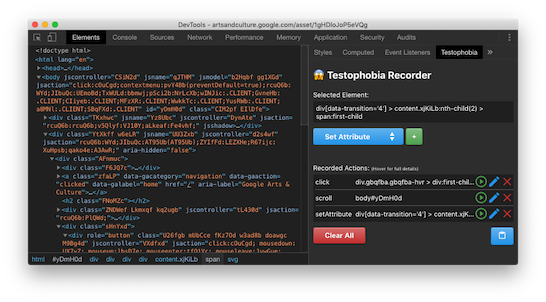
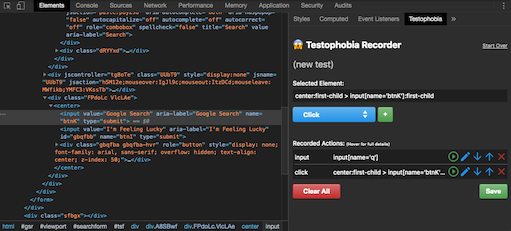
closes #35 (#38)

diff --git a/recorder/extension/sidebar-actions-table.js b/recorder/extension/sidebar-actions-table.js
@@ -1,7 +1,8 @@
-/* global $, Testophobia */
+/* global $, Testophobia, chrome */
 Testophobia.actions = [];
 
-Testophobia.actionsChanged = () => {
+Testophobia.actionsChanged = (skipStorage) => {
+  if (!skipStorage) Testophobia.storeActions();
   let rendered = '';
   if (Testophobia.actions && Testophobia.actions.length) {
     $('#actionsLbl').removeAttr('hidden');
@@ -20,6 +21,8 @@ Testophobia.actionsChanged = () => {
     <td title="${a.target}">${a.target}</td>
     <td title="Play">${playTpl}</td>
     <td title="Edit"><svg data-row="${idx}" data-type="edit" width="24" height="24" viewBox="0 0 24 24" xmlns="http://www.w3.org/2000/svg"><g><path d="M3 17.25V21h3.75L17.81 9.94l-3.75-3.75L3 17.25zM20.71 7.04c.39-.39.39-1.02 0-1.41l-2.34-2.34c-.39-.39-1.02-.39-1.41 0l-1.83 1.83 3.75 3.75 1.83-1.83z"></path></g><svg></td>
+    <td title="Move Down"><svg data-row="${idx}" data-type="down" width="24" height="24" viewBox="0 0 24 24" xmlns="http://www.w3.org/2000/svg"><g><path d="M20 12l-1.41-1.41L13 16.17V4h-2v12.17l-5.58-5.59L4 12l8 8 8-8z"></path></g><svg></td>
+    <td title="Move Up"><svg data-row="${idx}" data-type="up" width="24" height="24" viewBox="0 0 24 24" xmlns="http://www.w3.org/2000/svg"><g><path d="M4 12l1.41 1.41L11 7.83V20h2V7.83l5.58 5.59L20 12l-8-8-8 8z"></path></g><svg></td>
     <td title="Delete"><svg data-row="${idx}" data-type="del" width="24" height="24" viewBox="0 0 24 24" xmlns="http://www.w3.org/2000/svg"><g><path d="M19 6.41L17.59 5 12 10.59 6.41 5 5 6.41 10.59 12 5 17.59 6.41 19 12 13.41 17.59 19 19 17.59 13.41 12z"></path></g><svg></td>
   </tr>`;
     });
@@ -54,9 +57,34 @@ $('#actionsList').click(e => {
         Testophobia.actions.splice(actionIdx, 1);
         Testophobia.actionsChanged();
         break;
+      case 'down':
+        if (actionIdx === Testophobia.actions.length - 1) break;
+        swapActionsAtIndexes(actionIdx, actionIdx+1);
+        break;
+      case 'up':
+        if (actionIdx === 0) break;
+        swapActionsAtIndexes(actionIdx, actionIdx-1);
+        break;
     }
   }
 });
+
+Testophobia.storeActions = () => {
+  chrome.storage.sync.set({testophobiaActions: JSON.stringify(Testophobia.actions)});
+};
+
+Testophobia.retrieveActions = () => {
+  chrome.storage.sync.get('testophobiaActions', data => {
+    Testophobia.actions = (data && data.testophobiaActions) ? JSON.parse(data.testophobiaActions) : [];
+    Testophobia.actionsChanged(true);
+  });
+};
+
+
+function swapActionsAtIndexes(idx1, idx2) {
+  Testophobia.actions[idx2] = [Testophobia.actions[idx1], Testophobia.actions[idx1] = Testophobia.actions[idx2]][0];
+  Testophobia.actionsChanged();
+}
 
 function buildActionString(action) {
   let actionString = '';

diff --git a/recorder/recorder.js b/recorder/recorder.js
@@ -32,15 +32,9 @@ exports.TestophobiaRecorder = class TestophobiaRecorder {
       userPrefs: {
         devtools: {
           preferences: {
-            Inspector: {
-              drawerSplitViewState: "{\"horizontal\":{\"size\":477.2000060081482,\"showMode\":\"OnlyMain\"}}"
-            },
-            InspectorView: {
-              splitViewState: "{\"vertical\":{\"size\":0},\"horizontal\":{\"size\":0}}",
-            },
             cacheDisabled: "true",
             currentDockState: "\"undocked\"",
-            elementsPanelSplitViewState: "{\"vertical\":{\"size\":419.6000020503998}}",
+            elementsPanelSplitViewState: "{\"vertical\":{\"size\":600}}",
             "panel-selectedTab": "\"elements\"",
             uiTheme: "\"dark\""
           }

diff --git a/recorder/extension/sidebar.css b/recorder/extension/sidebar.css
@@ -183,9 +183,7 @@ table td:nth-child(1) {
 table td:nth-child(2) {
   width: 75%;
 }
-table td:nth-child(3),
-table td:nth-child(4),
-table td:nth-child(5) {
+table td:nth-child(n+3) {
   width: 24px;
 }
 table td svg {
@@ -197,7 +195,9 @@ table td svg:hover {
 table td svg[data-type="play"] {
   fill: #57a957;
 }
-table td svg[data-type="edit"] {
+table td svg[data-type="edit"],
+table td svg[data-type="up"],
+table td svg[data-type="down"] {
   fill: #269CE9;
 }
 table td svg[data-type="del"] {

diff --git a/recorder/extension/sidebar.js b/recorder/extension/sidebar.js
@@ -7,6 +7,7 @@ bgConnection.onMessage.addListener(request => {
   switch (request.name) {
     case 'testophobia-content-ready':
       Testophobia.setSelectedElement();
+      Testophobia.retrieveActions();
       Testophobia.chooseTest();
       break;
     case 'testophobia-page-refresh':

diff --git a/README.md b/README.md
@@ -138,7 +138,7 @@ another _--golden_ run.
 Testophobia also includes a Chrome DevTools extension that you can use to edit tests and easily record a set of
 Testophobia _actions_.
 
-<img width="546" height="302" src="https://raw.githubusercontent.com/testophobia/testophobia/HEAD/docs/images/testophobia-recorder.png">
+<img width="511" height="231" src="https://raw.githubusercontent.com/testophobia/testophobia/HEAD/docs/images/testophobia-recorder.png">
 
 This allows you to use the power of Chrome DevTools to easily __find__ DOM elements that you need to target for actions,
 and then __configure__ the action with the necessary parameters.  You can __playback__ the actions, to make sure they
@@ -166,11 +166,11 @@ Testophobia instance:
 
 `baseUrl`: (string) the base url of your website or application | default: http://localhost:6789
 
-`golden`: (boolean) generate the golden screenshots
+`golden`: (boolean) generate the golden screenshots | default: false
 
-`debug`: (boolean) provides additional output during tests, runs a full version of chromium, pipes browser console output to local CLI
+`debug`: (boolean) provides additional output during tests, runs a full version of chromium, pipes browser console output to local CLI  | default: false
 
-`bail`: (boolean) exit immediately upon first test failure
+`bail`: (boolean) exit immediately upon first test failure  | default: false
 
 `defaultTime`: (number) sets the JavaScript date instance (in ms) for use in testing components | default: 2068786800000 (July 23, 2035)
 
